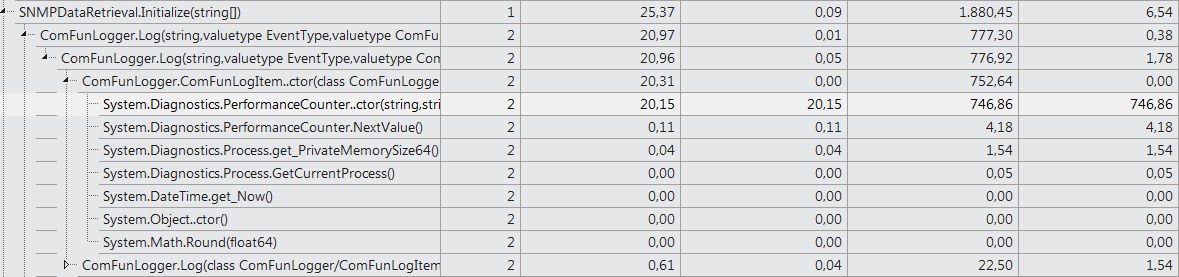
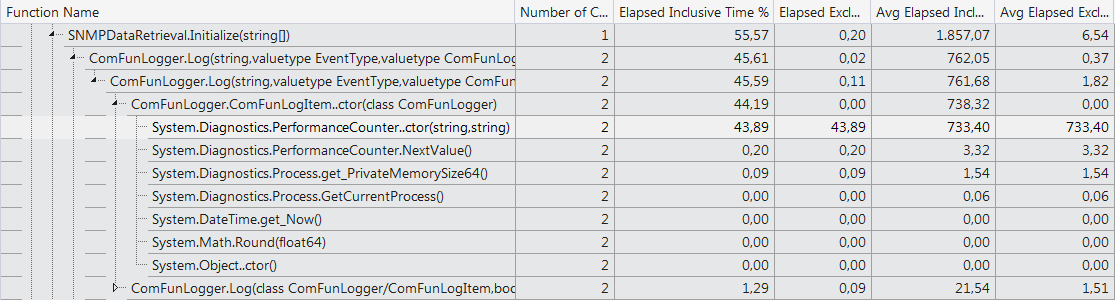
Benchmarks & Experimenten: Sectie over profiler afgewerkt. Ook de figuur van de call tree in de Initialize-methode vervangen omdat die de originele versie toonde, en niet die met GETBULK-requests.

diff --git a/chapters/benchmarks_experimenten.tex b/chapters/benchmarks_experimenten.tex
@@ -609,8 +609,6 @@ Ook het verhogen van het aantal objecten per request van 10 naar 50 heeft een po
 \subsection{Profiling van de SNMP Data Retriever}
 \label{profiling}
 
-\todo[inline]{Cleanup. Aanvullen na afwerken. \\
-Is het een probleem dat functies en methoden door elkaar gebruikt worden?}
 In deze paragraaf gaan we de SNMP Data Retriever van NetworkMining onder de loep nemen met de ingebouwde profiler van Visual Studio.
 Een profiler zal ons enkele belangrijke inzichten verschaffen over wat er achter de schermen gebeurt bij het uitvoeren van de retriever.
 Specifiek:
@@ -621,6 +619,10 @@ Specifiek:
 	\item Problematische stukken code detecteren die er veel langer over doet dan we verwachten
 	\item En bijgevolg welke stukken het meeste potentieel bieden om te optimaliseren
 \end{itemize}
+
+Daar waar we problemen vinden of kansen zien om te optimaliseren zullen we de nodige aanpassingen doen en de resultaten daarvan testen.
+Een van de aanpassingen die we bekijken is het gebruik van GETBULK-requests, zoals we onderzocht hebben in \cref{bulkrequests-benchmarks}.
+Maar om te beginnen leggen we het gebruik van de profiler uit in Visual Studio 2013.
 
 \subsubsection{Gebruik van de profiler in Visual Studio 2013}
 
@@ -722,7 +724,7 @@ de gemiddelde \emph{inclusieve} tijd in milliseconden.
 	\label{call-tree-main}
 \end{table}
 
-\subsubsection{RetrieveFromDevice}
+\subsubsection{RetrieveFromDevice-methode}
 
 \todo[inline]{Titel: functienaam (RetrieveFromDevice) of oplossing/onderdeel/probleem (Bulk requests). \\
 Hier maakt het weinig uit maar bij het volgende deel wel: Initialize of Logging (wat het probleem meteen weggeeft).}
@@ -778,17 +780,18 @@ Gezien de resultaten die we gezien hebben in \cref{bulkrequests-benchmarks} waar
 was de keuze dan ook snel gemaakt om de SNMP walkopdracht te implementeren met behulp van GETBULK-requests.
 
 Na het implementeren van de SNMP walkopdracht met behulp van GETBULK-requests doen we een test op basis van dezelfde twee \glspl{oid} als hierboven.
+Zoals we in \cref{bulkrequests-benchmarks} beslist hebben, vragen we 50 objecten per request.
 We laten de oude en nieuwe implementatie 100 maal lopen en vergelijken de resultaten in \cref{tabel-nwmretriever-met-bulkrequests}.
 
 \begin{table}[h]
 \centering
 \begin{tabular}{@{}lrrr@{}}
 \toprule
-                                                                                            & Objecten & Uitvoeringstijd (s) & Objecten/ms \\ \midrule
-SNMP Walk met GETNEXT-requests                                                              & 472      & 7,371               & 0,064       \\
-SNMP Walk met GETBULK-requests                                                              & 441      & 3,131               & 0,141       \\
-\begin{tabular}[c]{@{}l@{}}RetrieveFromDevice methode met\\   GETNEXT-requests\end{tabular} & 472      & 5,060               & 0,093       \\
-\begin{tabular}[c]{@{}l@{}}RetrieveFromDevice methode met\\   GETBULK-requests\end{tabular} & 441      & 0,722               & 0,611       \\ \bottomrule
+                                                                                                 & Objecten & Uitvoeringstijd (s) & Objecten/ms \\ \midrule
+SNMP Walk met GETNEXT-requests                                                                   & 472      & 7.371               & 0.064       \\
+SNMP Walk met GETBULK-requests (50)                                                              & 441      & 3.131               & 0.141       \\
+\begin{tabular}[c]{@{}l@{}}RetrieveFromDevice methode met\\   GETNEXT-requests\end{tabular}      & 472      & 5.060               & 0.093       \\
+\begin{tabular}[c]{@{}l@{}}RetrieveFromDevice methode met\\   GETBULK-requests (50)\end{tabular} & 441      & 0.722               & 0.611       \\ \bottomrule
 \end{tabular}
 \caption{SNMP Walk op basis van GETNEXT-requests versus GETBULK-requests in de \nwmretriever{}}
 \label{tabel-nwmretriever-met-bulkrequests}
@@ -798,6 +801,8 @@ De eerste twee rijen geven de totale uitvoeringstijd weer van de \nwmretriever{}
 de laatste twee tonen de uitvoeringstijd van de RetrieveFromDevice methode gemeten met de profiler.
 Het verschil in het aantal objecten tussen de SNMP walk met GETNEXT- en GETBULK-requests valt te verklaren door het feit dat er gebruik gemaakt wordt van
 respectievelijk SNMP versie 1 en 2c. Versie 1 ondersteunt geen objecten van het type Counter64, dus die kunnen niet opgehaald worden\cite{snmp-counters-faq}.
+
+\todo[inline]{Dit klopt niet!!! De v1 geeft MEER resultaten dan v2c! Dus er is iets anders aan de hand bij deze test...}
 
 We zien dat gemiddelde uitvoeringstijd met ruim vier seconden ingekort wordt, goed voor een ruime verdubbeling van de snelheid.
 Als we met de profiler echter enkel en alleen kijken naar methode voor de retrieval zien we dat de methode net zever keer sneller is
@@ -829,7 +834,8 @@ SnmpSource.SnmpVariable.CreateSnmpVariable               & 11    & 0,04      & 0
 In \cref{call-tree-retrievefromdevice-bulk} zie je hoe de call tree van de RetrieveFromDevice methode er nu uitziet.
 In de nieuwe implementatie doen de SyncRequest oproepen er drie keer zo lang over,
 maar er moeten maar 11 requests meer verstuurd worden in plaats van 443.
-De requests zijn nu nog maar voor 11\% i.p.v. 58\% verantwoordelijk van de totale uitvoeringstijd.
+Twee derde van de uitvoeringstijd van de RetrieveFromDevice-methode wordt besteed aan het ophalen van de gegevens en een derde aan het wegschrijven ervan.
+De requests zelf zijn nu nog maar voor 11\% i.p.v. 58\% verantwoordelijk van de totale uitvoeringstijd.
 
 \begin{table}[h]
 \centering
@@ -873,46 +879,46 @@ We beslissen dan ook dat het niet de moeite is om dit te implementeren omdat er 
 }.
 
 
-\subsubsection{Initialize}
-\todo{Titel ok?}
-\todo[inline]{Herschrijf begin van stuk over logging framework.}
-Het eerste wat er ons opvalt als we de call tree bekijken is dat de \emph{Initialize} methode 25\% van de
-uitvoeringstijd voor zijn rekening neemt.
-Rijst de vraag wat deze functie juist doet dat ze zoveel tijd nodig heeft.
+\subsubsection{Initialize-methode}
 
-We klappen de Initialize methode open om de boosdoeners te zoeken.
-De functies van de Initialize methode vind je terug in \cref{call-tree-initialize}.
-We zien twee oproepen naar een \emph{Log} methode die er gemiddeld bijna een seconde over doet \emph{per oproep}! %TODO: Koppelteken
+Als we de call tree van de Main-methode bekijken dan valt op dat naast de RetrieveFromDevice-methode,
+die logischerwijs een belangrijke factor is in de uitvoeringstijd,
+er nog een methode is die voor een groot stuk medeverantwoordelijk is voor de uitvoeringstijd: de \textit{Initialize}-methode.
+
+In de originele implementatie was ze verantwoordelijk voor 25\% van de uitvoeringstijd, in de nieuwe is dit opgelopen tot bijna 56\%!
+De Initialize-methode doet er bijna 2 seconden over, dus zijn we erg niewsgierig wat er juist in deze methode gebeurt dat zoveel tijd nodig zou hebben.
+Dus beginnen we met het analyseren van de call tree van de functie, te zien in \cref{call-tree-initialize}.
+Wat we zien zijn twee oproepen naar een \emph{Log} methode die er gemiddeld bijna een seconde over doet \emph{per oproep}! %TODO: Koppelteken
 
 \begin{table}[h]
-	\centering
-	\begin{tabular}{@{}lrrr@{}}
-		\toprule
-		Functie                                                   & Calls & Tijd (\%) & Tijd (ms) \\ \midrule
-		ComFunLogger.Log                                          & 2     & 20,97     & 777,30    \\
-		ComFunSQLConnection..ctor                                 & 1     & 3,51      & 259,97    \\
-		ComFunLogger.set\_LogFile                                 & 1     & 0,19      & 13,87     \\
-		System.Configuration.ConfigurationManager.get\_AppSettin… & 12    & 0,16      & 0,99      \\
-		Microsoft.VisualBasic.CompilerServices.Conversions.ToIn…  & 2     & 0,15      & 5,58      \\
-		ComFunLogger.Log                                          & 4     & 0,13      & 2,41      \\
-		ComFunLogger.Log                                          & 3     & 0,06      & 1,59      \\
-		ComFunLogger.Log                                          & 2     & 0,05      & 1,87      \\
-		ComFun.NetworkMiningCopyRightStatement                    & 1     & 0,03      & 2,03      \\
-		ComFunLogger..ctor                                        & 1     & 0,01      & 1,10      \\ \bottomrule
-	\end{tabular}
-	\caption{De call tree van de Initialize methode} %TODO: Koppelteken
-	\label{call-tree-initialize}
+\centering
+\begin{tabular}{@{}lrrr@{}}
+\toprule
+Functie                                                   & Calls & Tijd (\%) & Tijd (ms) \\ \midrule
+ComFunLogger.Log                                          & 2     & 45,61     & 762,05    \\
+ComFunSQLConnection..ctor                                 & 1     & 8,15      & 272,18    \\
+ComFunLogger.set\_LogFile                                 & 1     & 0,42      & 14,17     \\
+Microsoft.VisualBasic.CompilerServices.Conversions.ToIn…  & 2     & 0,32      & 5,41      \\
+ComFunLogger.Log                                          & 4     & 0,29      & 2,44      \\
+System.Configuration.ConfigurationManager.get\_AppSettin… & 12    & 0,22      & 0,61      \\
+ComFunLogger.Log                                          & 3     & 0,13      & 1,46      \\
+ComFunLogger.Log                                          & 2     & 0,10      & 1,73      \\
+ComFun.NetworkMiningCopyRightStatement                    & 1     & 0,06      & 2,14      \\
+ComFunLogger..ctor                                        & 1     & 0,03      & 1,07      \\ \bottomrule
+\end{tabular}
+\caption{De call tree van de Initialize methode} %TODO: Koppelteken
+\label{call-tree-initialize}
 \end{table}
 
 De \emph{ComFunLogger} is een stuk code die gebruikt wordt om te loggen naar een tekstbestand.
 De naam komt van het feit dat ze een gemeenschappelijk stuk code is die over meerdere projecten kan
 gebruikt worden: \emph{common functions}, of \emph{ComFun} voor kort.
 Maar een functie die loggegevens wegschrijft naar een bestand hoort niet zo lang te duren.
-I/O operaties zijn kostelijk, maar niet \emph{zo} kostelijk. %TODO: Koppelteken
+I/O-operaties zijn kostelijk, maar niet \emph{zo} kostelijk. %TODO: Koppelteken
 Als we de functie helemaal openklappen in \cref{call-tree-performancecounter} vinden we de echte dader:
 een constructor van \emph{System.Diagnostics.PerformanceCounter}.
 Een performance counter wordt gebruikt voor het monitoren van systeemcomponenten zoals
-processoren, geheugen en netwerk I/O. Als je ze gebruikt in je applicatie kunnen ze je %TODO: Koppelteken
+processoren, geheugen en netwerk-I/O. Als je ze gebruikt in je applicatie kunnen ze je %TODO: Koppelteken
 informatie geven over de performantie van je programma.\cite{performance-counters-intro}
 De ComFunLogger gebruikt ze om het geheugengebruik te meten en weg te schrijven in de logbestanden.
 
@@ -950,9 +956,84 @@ Zo was het veel sneller om een ander logging framework te gebruiken dan om beken
 De keuze is uiteindelijk gevallen op Apache log4net en is gebaseerd op waarschijnlijk het bekendste logging framework voor java: Apache log4j.
 Bij de keuze werd rekening gehouden met de performantieimpact en de features van de verschillende logging frameworks.\footnote{
 	Een vergelijking tussen de bekendste logging frameworks voor .NET vind je 
-	terug in de bronnenlijst bij bron \cite{logging-frameworks-and-performance} en \cite{logging-frameworks}.}
+	terug in de bronnenlijst bij bron \cite{logging-frameworks-and-performance} en \cite{logging-frameworks}.
+}
 
-\todo[inline]{Afwerken.}
+\todo[inline]{De meest belangrijke reden zou toch moeten het feit zijn dat
+log4net ervoor geoptimaliseerd is om zo weinig mogelijk impact te hebben op de uitvoeringstijd.}
+
+Net als bij het implementeren van GETBULK-requests laten we opnieuw de \nwmretriever{} dezelfde \glspl{oid} opvragen van een productieswitch.
+We herhalen de test 100 keer en berekenen de gemiddelde uitvoeringstijd en vergelijken met de vorige resultaten
+in \cref{tabel-nwmretriever-met-bulkrequests-en-log4net}.
+Om een zicht te hebben op de overhead van de \nwmretriever{} bekijken we ook de performantie van enkel de RetrieveFromDevice-methode (ophalen en wegschrijven in databank) en alle SyncRequest-methoden samen (enkel het ophalen van de gegevens).
+Ten slotte vergelijken we ook met de resultaten die we in het verleden behaalden met Net-SNMP bij het bevragen van dezelfde switch.
+Toen ging het wel om meer gegevens.
+
+\begin{table}[h]
+\centering
+\begin{tabular}{@{}lrrr@{}}
+\toprule
+                                                                                                 & Objecten & Uitvoeringstijd (s) & Objecten/ms \\ \midrule
+SNMP Walk met GETNEXT-requests                                                                   & 472      & 7.371               & 0.064       \\
+SNMP Walk met GETBULK-requests (50)                                                              & 441      & 3.131               & 0.141       \\
+\begin{tabular}[c]{@{}l@{}}SNMP Walk met GETBULK-requests en\\   log4net (50)\end{tabular}       & 441      & 1.839               & 0.240       \\
+\begin{tabular}[c]{@{}l@{}}RetrieveFromDevice-methode met\\   GETBULK-requests (50)\end{tabular} & 441      & 0.722               & 0.611       \\
+\begin{tabular}[c]{@{}l@{}}SyncRequest-methode met GETBULK-requests\\   (50)\end{tabular}        & 441      & 0.387               & 1.138       \\
+Net-SNMP Bulkwalk (50)                                                                           & 2750     & 1.488               & 1.848       \\ \bottomrule
+\end{tabular}
+\caption{Vergelijking van de verschillende implementaties van \nwmretriever{} en Net-SNMP}
+\label{tabel-nwmretriever-met-bulkrequests-en-log4net}
+\end{table}
+
+Opnieuw zien we een grote verbetering: de uitvoeringstijd is nu 1,7 keer sneller ten opzichte van de vorige versie,
+en vier keer sneller dan de originele versie!
+Alhoewel we zeer grote performantiewinsten behaald hebben ten opzichte van de originel versie van de \nwmretriever{},
+als we kijken naar enkel naar het ophalen van de gegevens door de SyncRequest-methode,
+dan is dit nog steeds 38\% trager dan Net-SNMP.
+Maar omdat deze methode onderdeel is van de third-party bibliotheek SnmpSource kunnen we daar verder meer aan verbeteren.
+
+\begin{table}[h]
+\centering
+\begin{tabular}{@{}lrrr@{}}
+\toprule
+Functie                                                  & Calls & Tijd (\%) & Tijd (ms) \\ \midrule
+SNMPDataRetrieval.RetrieveFromDevice2                    & 1     & 38,80     & 725,19    \\
+SNMPDataRetrieval.ReadDeviceTypes                        & 1     & 17,20     & 321,51    \\
+SNMPDataRetrieval.Initialize                             & 1     & 17,02     & 318,13    \\
+log4net.Config.XmlConfigurator.Configure                 & 1     & 10,25     & 191,52    \\
+SNMPDataRetrieval.CreateDBTable                          & 1     & 8,28      & 154,77    \\
+SNMPDataRetrieval.ReadDevices                            & 1     & 2,50      & 46,77     \\
+ComFunSQLConnection.GetSQLSelectData                     & 1     & 0,95      & 17,75     \\
+Microsoft.VisualBasic.CompilerServices.NewLateBinding.L… & 1     & 0,87      & 16,26     \\
+ComFunSQLConnection.DoSQLNonQuery                        & 1     & 0,75      & 14,02     \\
+log4net.LogManager.GetLogger                             & 1     & 0,44      & 8,14      \\
+ComFunSQLConnection.TableExists                          & 3     & 0,12      & 0,76      \\
+log4net.ILog.Info                                        & 3     & 0,06      & 0,39      \\ \bottomrule
+\end{tabular}
+\caption{De call tree van de Main methode met GETBULK-requests en log4net}
+\label{call-tree-main-bulk-en-log4net}
+\end{table}
+
+De call tree van de Main-methode van de nieuwste versie zie je in \cref{call-tree-main-bulk-en-log4net}.
+De totale uitvoeringstijd wordt nu voornamelijk bepaald door de volgende onderdelen:
+
+\begin{itemize}
+	\item 38,80\% (725 ms): bevragen van het toestel en het wegschrijven van de gegevens in de databank.
+	\item 17,20\% (322 ms): het inlezen van de toesteltypes uit het XML-configuratiebestand.
+		Het gebruik van reguliere expressies heeft hier de meeste impact op.
+	\item 17,02\% (318 ms): het initialiseren,
+		de meeste tijd wordt hier besteed aan de constructie van een SQL Connection-object (250 ms).
+	\item 10,25\% (192 ms): het inlezen van het log4net configuratiebestand.
+	\item 8,28\% (155 ms): het aanmaken van de databanktabellen.
+	\item 2,50\% (47 ms): het inlezen van de te bevragen toestellen uit het XML-configuratiebestand.
+\end{itemize}
+
+\subsubsection{Conclusie}
+
+Het implementeren van de SNMP walkopdracht met behulp van GETBULK-requests en het vervangen van het logging framework
+door log4net heeft ervoor gezorgd dat de \nwmretriever{} vier keer sneller werkt in vergelijking met de originele versie.
+Alhoewel we het hier niet bekeken hebben, valt er nog te verbeteren bij het invoeren van de opgehaalde gegevens in de databank.
+Daar kunnen gegevens best in bulk weggeschreven worden in plaats van gegeven per gegeven zoals nu.
 
 \todo[inline, caption={}]{
 
